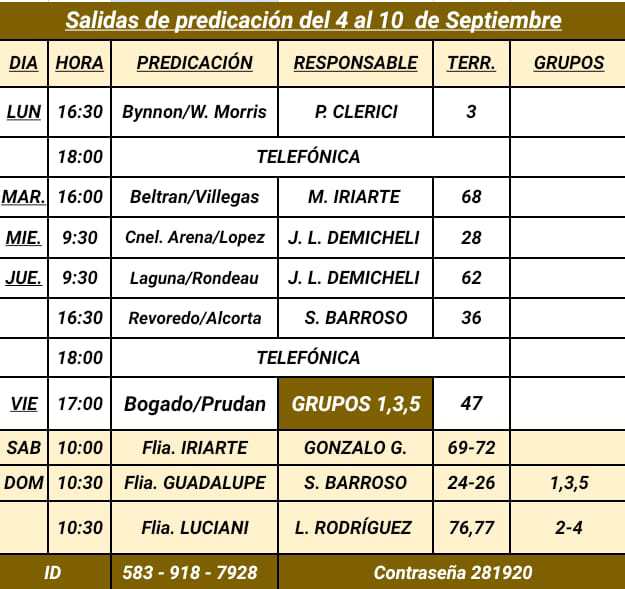
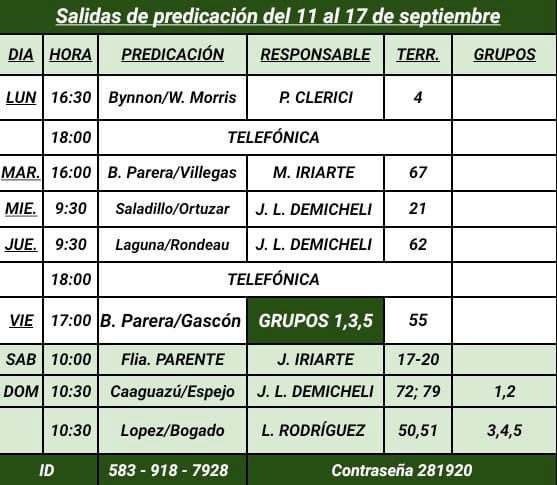
actualizacion cartelera salida

diff --git a/pages/programaSemanal/programaSemanal.html b/pages/programaSemanal/programaSemanal.html
@@ -39,7 +39,7 @@
     <main>
         <section class="reuSemanal">
             <h2> Programa para la reunión entre semana</h2>
-            <img src="./asignacionesAgosto.png" alt="">
+            <img src="./asignacionesSeptiembre.png" alt="">
         </section>
     </main>
     <footer>
